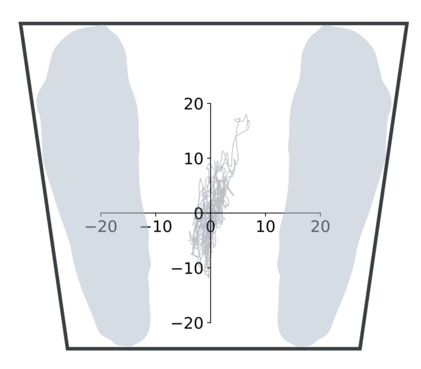
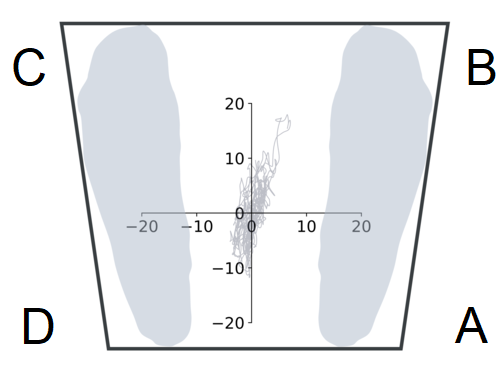
Upload Matlab code, and update instructions.

Changed region(s): [[0.0, 0.0596, 0.6176, 0.9539], [0.5867, 0.0596, 0.9881, 0.9539], [0.4323, 0.2385, 0.4941, 0.2981]]

diff --git a/code_matlab/get_vtc_series.m b/code_matlab/get_vtc_series.m
@@ -1,0 +1,41 @@
+function [vtc_s, bc_s] = get_vtc_series(cop, bos, fs)
+    % Get VTC and BC time-series
+    % Params:
+    %   cop: anterior-posterior and medio-lateral CoP data | EasyDict of np.array
+	%   bos: base of support | EasyDict of list
+	%   fs: sampling rate (Hz) | int/float
+    % Returns
+    %   vtc_s: VTC time series | np.array
+	%   bc_s: BC time series | np.array
+    
+    A_VERY_LARGE_NUMBER = 999;
+
+    ts = 1.0/fs;
+    rx = cop.x;
+    ry = cop.y;
+    vx = diff(rx)./ts;
+    vy = diff(ry)./ts;
+    ax = diff(vx)./ts;
+    ay = diff(vy)./ts;
+
+    s_size = length(ax);
+    vtc_s  = A_VERY_LARGE_NUMBER*ones(1, s_size);
+    bc_s   = A_VERY_LARGE_NUMBER*ones(1, s_size);
+
+    disp('* Start the VTC calculation')
+    for i = 1:s_size
+        r = [rx(i + 2), ry(i + 2)];
+        v = [vx(i + 1), vy(i + 1)];
+        a = [ax(i), ay(i)];
+
+        tau_AB = get_vtc(r, v, a, bos.A, bos.B);
+        tau_BC = get_vtc(r, v, a, bos.B, bos.C);
+        tau_CD = get_vtc(r, v, a, bos.C, bos.D);
+        tau_DA = get_vtc(r, v, a, bos.D, bos.A);
+
+        all_tau  = [tau_AB, tau_BC, tau_CD, tau_DA];
+        vtc_s(i) = min(all_tau);
+        min_id   = find(all_tau == min(all_tau));
+        bc_s(i)  = mod(min_id, 2);
+    end
+end

diff --git a/code_matlab/get_vtc.m b/code_matlab/get_vtc.m
@@ -1,0 +1,47 @@
+function [tau] = get_vtc(r, v, a, vt1, vt2)
+    % Get time to contact at a specific segment (of the boundary) 
+    % Params:
+    %   r: instant position (rx, ry) of the CoP 
+    %   v: instant velocity (vx, vy) of the CoP
+    %   a: instant velocity (ax, ay) of the CoP
+    %   vt1: 1st vertex (x, y) of the boundary segment
+    %   vt2: 2nd vertex (x, y) of the boundary segment
+    % Returns:
+    %   tau: time to contact at an instant time (s)
+    
+    A_VERY_LARGE_NUMBER = 999;
+
+    tau = A_VERY_LARGE_NUMBER;
+
+    rx = r(1);
+    ry = r(2);
+    vx = v(1);
+    vy = v(2);
+    ax = a(1);
+    ay = a(2);
+    x1 = vt1(1);
+    y1 = vt1(2);
+    x2 = vt2(1);
+    y2 = vt2(2);
+
+    if x2 == x1 
+        A = ax/2;
+        B = vx;
+        C = rx - x1;
+    else
+        s = (y2 - y1)/(x2 - x1);
+        A = (ay - s*ax)/2;
+        B = (vy - s*vx);
+        C = ((ry - y1) - s*(rx - x1));        
+    end
+
+    p = [A B C];
+    rts = roots(p);
+    for j = 1: length(rts)
+        if (rts(j) > 0) && (isreal(rts(j)) == 1)
+            if tau > rts(j)
+                tau = rts(j);
+            end
+        end
+    end
+end

diff --git a/code_matlab/main.m b/code_matlab/main.m
@@ -1,0 +1,43 @@
+% name: main.py
+% description: directional VTC calculation
+% author: Vu Phan
+% date: 2023/07/22
+
+
+clear
+close all
+clc
+
+% Constants
+IDX = 2;
+IDY = 3;
+fs = 2000; % Hz
+
+% Boundary
+% YOU NEED TO MEASURES BOS OF YOUR PARTICIPANT AND ENTER IT HERE -->
+bos   = struct();
+bos.A = [10, -10];
+bos.B = [15, 20];
+bos.C = [-15, 20];
+bos.D = [-10, -10];
+% <-- YOU NEED TO MEASURES BOS OF YOUR PARTICIPANT AND ENTER IT HERE
+
+% Get CoP data
+dt = readmatrix("../data/sample_cop.csv");
+
+cop   = struct();
+cop.x = dt(:, IDX);
+cop.y = dt(:, IDY);
+
+% Obtain VTC time-series
+[vtc_s, bc_s] = get_vtc_series(cop, bos, fs);
+
+% Calculate directional VTC outcomes
+[outcomes] = get_vtc_outcomes(vtc_s, bc_s, fs);
+
+fprintf("2D VTC mean = %.2f (s)\n", outcomes(1));
+fprintf("AP VTC mean = %.2f (s)\n", outcomes(2));
+fprintf("ML VTC mean = %.2f (s)\n", outcomes(3));
+fprintf("AP BC = %.2f (percents) \n", outcomes(4));
+fprintf("ML BC = %.2f (percents) \n", outcomes(5));
+fprintf("Switching rate = %.2f (Hz)\n", outcomes(6));

diff --git a/code_matlab/get_vtc_outcomes.m b/code_matlab/get_vtc_outcomes.m
@@ -1,0 +1,35 @@
+function [outcomes] = get_vtc_outcomes(vtc_s, bc_s, fs, varargin)
+    % Obtain directional VTC measures
+    % Params:
+    %   vtc_s: time-series of VTC 
+	%   bc_s: time-series of BC 
+	%   varargin: self-defined threshold for calculating switching rate
+    % Returns:
+    %   outcomes: set of directional VTC measures 
+    
+    if (nargin > 3)
+        threshold = varargin{1};
+    else
+        threshold = mean(vtc_s) + 3*std(vtc_s);
+    end
+
+    DIR_Y = 1;
+    DIR_X = 0;
+
+    num_samples = length(vtc_s);
+
+    id_y = find(bc_s == DIR_Y);
+    id_x = find(bc_s == DIR_X);
+
+    vtc_2d = mean(vtc_s);
+    vtc_y  = mean(vtc_s(id_y));
+    vtc_x  = mean(vtc_s(id_x));
+
+    bc_y = length(id_y)*100.0/num_samples;
+    bc_x = length(id_x)*100.0/num_samples;
+
+    [sr_p, ~] = findpeaks(vtc_s, 'MinPeakHeight', threshold);
+    sr = length(sr_p)*fs/num_samples;
+
+    outcomes = [vtc_2d, vtc_y, vtc_x, bc_y, bc_x, sr];
+end

diff --git a/README.md b/README.md
@@ -5,16 +5,17 @@ This repository contains the implementation of customized functions for directio
 ```
 $ Directory tree
 .
-├── data\
-│   ├── sample_cop.csv
+├── code_python\
+│   ├── main.py
+│   ├── visualizer.py
+│   └── vtc_utils.py
 ├── code_matlab\
-│   ├── main.m
-│   ├── vtc_utils.m
-│   └── visualizer.m
-└── code_python\
-    ├── main.py
-    ├── vtc_utils.py
-    └── visualizer.py
+│   ├── get_vtc.m
+│   ├── get_vtc_outcomes.m
+│   ├── get_vtc_series.m
+│   └── main.m
+└── data\
+    └── sample_cop.csv
 ```
 
 See [our publication](https://www.sciencedirect.com/science/article/pii/S0021929022004699) on the *Journal of Biomechanics* for more detail of the method and testing scenarios. 
@@ -23,21 +24,57 @@ See [our publication](https://www.sciencedirect.com/science/article/pii/S0021929
 We assume that you already did pre-processing steps (e.g., filling missing gaps, filtering, etc.) on your data before using the code. 
 
 ## Preparing Your Data
-The calculation of VTC requires:
-- **Center-of-pressure (CoP)** - measured by force platform(s). We typically use net CoP displacements for the VTC calculation. If you have CoP data under each foot, you can obtain the net CoP based on the following equation ([Winter](https://www.sciencedirect.com/science/article/pii/0966636296828499), 1995). 
+The calculation of directional VTC requires center-of-pressure (CoP) trajectories and base of support (BoS). We initially used the net CoP for calculation but it should work for CoP under each foot too. The BoS can be either measured by a marker-based motion capture system or other means. We use a trapezoid (or its special case, a rectangle) fitting participant's feet as the BoS. Future updates will address more complex shapes of the BoS or use functional limit of stability for the VTC calculation.
 
-$$COP_{net} = COP_{l} \times {R_{vl} \over R_{vl} + R_{vr}} + COP_{r} \times {R_{vr} \over R_{vl} + R_{vr}}$$
-
-where, $COP_{l}$ and $R_{vl}$ is the COP and vertical ground reaction force under the *left* foot, respectively; while $COP_{r}$ and $R_{vr}$ is, respectively, the COP and vertical ground reaction force under the *right* foot.
-
-- **Boundary** or **base of support (BoS)** - either measured by a marker-based motion capture system or other means. We use a trapezoid (or its special case, a rectangle) fitting participant's feet as the BoS. Future updates will address more complex shapes of the BoS or use functional limit of stability for the VTC calculation.
-
-![figure [exercise]: COP and BOS](figures/cop_bos.png)
+<p align="center">
+  <img width="460" height="300" src="figures/cop_bos.png">
+  An example of the CoP and BoS
+</p>
 
 ## Using the MATLAB Code
 *(See this if you are using MATLAB for your analysis)*
 
-Coming soon ...
+```python
+clear
+close all
+clc
+
+% Constants
+IDX = 2;
+IDY = 3;
+fs = 2000; % Hz
+
+% Boundary
+% YOU NEED TO MEASURES BOS OF YOUR PARTICIPANT AND ENTER IT HERE -->
+bos   = struct();
+bos.A = [10, -10];
+bos.B = [15, 20];
+bos.C = [-15, 20];
+bos.D = [-10, -10];
+% <-- YOU NEED TO MEASURES BOS OF YOUR PARTICIPANT AND ENTER IT HERE
+
+% Get CoP data
+dt = readmatrix("../data/sample_cop.csv");
+
+cop   = struct();
+cop.x = dt(:, IDX);
+cop.y = dt(:, IDY);
+
+% Obtain VTC time-series
+[vtc_s, bc_s] = get_vtc_series(cop, bos, fs);
+
+% Calculate directional VTC outcomes
+[outcomes] = get_vtc_outcomes(vtc_s, bc_s, fs);
+
+fprintf("2D VTC mean = %.2f (s)\n", outcomes(1));
+fprintf("AP VTC mean = %.2f (s)\n", outcomes(2));
+fprintf("ML VTC mean = %.2f (s)\n", outcomes(3));
+fprintf("AP BC = %.2f (percents) \n", outcomes(4));
+fprintf("ML BC = %.2f (percents) \n", outcomes(5));
+fprintf("Switching rate = %.2f (Hz)\n", outcomes(6));
+```
+
+You may add your self-defined threshold as the 4th parameter in `get_vtc_outcomes`, for example, `get_vtc_outcomes(vtc_s, bc_s, fs, 5)`.
 
 
 ## Using the Python Code
@@ -93,6 +130,8 @@ visualizer.plot_cop(cop, bos)
 visualizer.plot_ts(time[2::], vtc_s, thres = outcomes[-1])
 visualizer.plot_ts(time[2::], bc_s)
 ```
+
+You may add your self-defined threshold as the 4th parameter in `get_vtc_outcomes`, for example, `get_vtc_outcomes(vtc_s, bc_s, fs, sw_thres = 5)`.
 
 ## Citation
 
